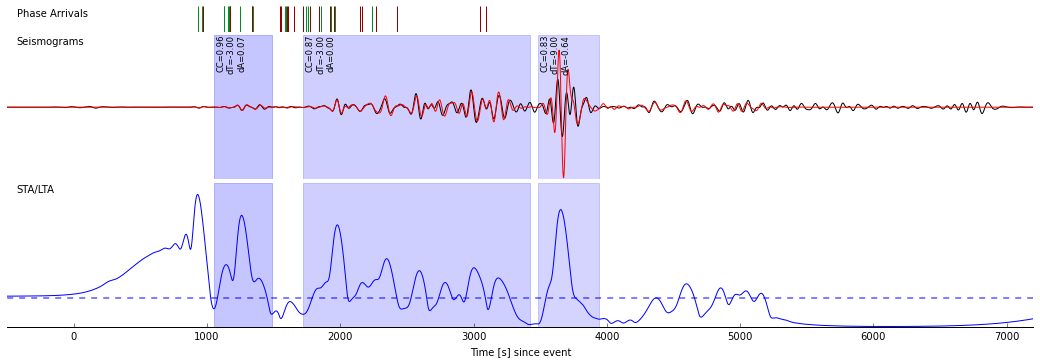
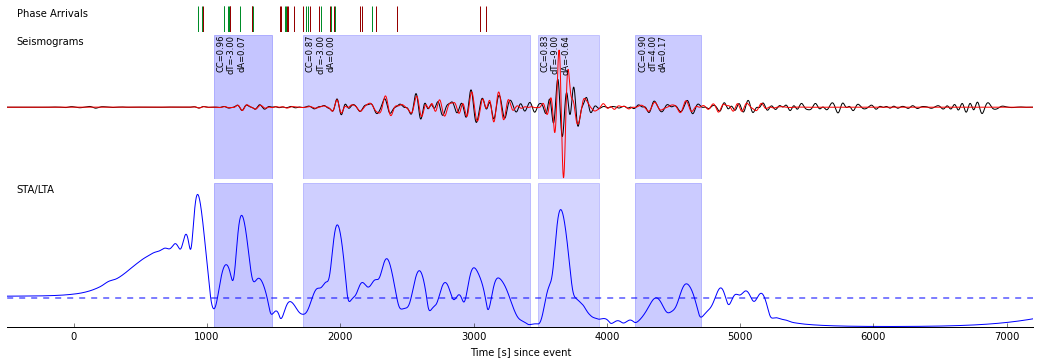
Travis build 22 pushed to gh-pages

Changed region(s): [[0.5846, 0.0909, 0.6769, 0.9091]]

diff --git a/_modules/pyflex/window_selector.html b/_modules/pyflex/window_selector.html
@@ -405,11 +405,14 @@
             <span class="bp">self</span><span class="o">.</span><span class="n">station</span><span class="o">.</span><span class="n">latitude</span><span class="p">,</span> <span class="bp">self</span><span class="o">.</span><span class="n">station</span><span class="o">.</span><span class="n">longitude</span><span class="p">,</span> <span class="bp">self</span><span class="o">.</span><span class="n">event</span><span class="o">.</span><span class="n">latitude</span><span class="p">,</span>
             <span class="bp">self</span><span class="o">.</span><span class="n">event</span><span class="o">.</span><span class="n">longitude</span><span class="p">)[</span><span class="mi">0</span><span class="p">]</span> <span class="o">/</span> <span class="mf">1000.0</span>
 
-        <span class="n">min_time</span> <span class="o">=</span> <span class="bp">self</span><span class="o">.</span><span class="n">ttimes</span><span class="p">[</span><span class="mi">0</span><span class="p">][</span><span class="s">&quot;time&quot;</span><span class="p">]</span> <span class="o">-</span> <span class="bp">self</span><span class="o">.</span><span class="n">config</span><span class="o">.</span><span class="n">min_period</span>
-        <span class="n">max_time</span> <span class="o">=</span> <span class="n">dist_in_km</span> <span class="o">/</span> <span class="bp">self</span><span class="o">.</span><span class="n">config</span><span class="o">.</span><span class="n">min_surface_wave_velocity</span>
+        <span class="n">offset</span> <span class="o">=</span> <span class="bp">self</span><span class="o">.</span><span class="n">event</span><span class="o">.</span><span class="n">origin_time</span> <span class="o">-</span> <span class="bp">self</span><span class="o">.</span><span class="n">observed</span><span class="o">.</span><span class="n">stats</span><span class="o">.</span><span class="n">starttime</span>
+
+        <span class="n">min_time</span> <span class="o">=</span> <span class="bp">self</span><span class="o">.</span><span class="n">ttimes</span><span class="p">[</span><span class="mi">0</span><span class="p">][</span><span class="s">&quot;time&quot;</span><span class="p">]</span> <span class="o">-</span> <span class="bp">self</span><span class="o">.</span><span class="n">config</span><span class="o">.</span><span class="n">min_period</span> <span class="o">+</span> <span class="n">offset</span>
+        <span class="n">max_time</span> <span class="o">=</span> <span class="n">dist_in_km</span> <span class="o">/</span> <span class="bp">self</span><span class="o">.</span><span class="n">config</span><span class="o">.</span><span class="n">min_surface_wave_velocity</span> <span class="o">+</span> <span class="n">offset</span>
 
         <span class="bp">self</span><span class="o">.</span><span class="n">windows</span> <span class="o">=</span> <span class="p">[</span><span class="n">win</span> <span class="k">for</span> <span class="n">win</span> <span class="ow">in</span> <span class="bp">self</span><span class="o">.</span><span class="n">windows</span>
-                        <span class="k">if</span> <span class="p">(</span><span class="n">win</span><span class="o">.</span><span class="n">right</span> <span class="o">&gt;=</span> <span class="n">min_time</span><span class="p">)</span> <span class="ow">and</span> <span class="p">(</span><span class="n">win</span><span class="o">.</span><span class="n">left</span> <span class="o">&lt;=</span> <span class="n">max_time</span><span class="p">)]</span>
+                        <span class="k">if</span> <span class="p">(</span><span class="n">win</span><span class="o">.</span><span class="n">relative_endtime</span> <span class="o">&gt;=</span> <span class="n">min_time</span><span class="p">)</span>
+                        <span class="ow">and</span> <span class="p">(</span><span class="n">win</span><span class="o">.</span><span class="n">relative_starttime</span> <span class="o">&lt;=</span> <span class="n">max_time</span><span class="p">)]</span>
         <span class="n">logger</span><span class="o">.</span><span class="n">info</span><span class="p">(</span><span class="s">&quot;Rejection based on travel times retained </span><span class="si">%i</span><span class="s"> windows.&quot;</span> <span class="o">%</span>
                     <span class="nb">len</span><span class="p">(</span><span class="bp">self</span><span class="o">.</span><span class="n">windows</span><span class="p">))</span>
 </div>
@@ -769,7 +772,9 @@
             <span class="n">plt</span><span class="o">.</span><span class="n">gca</span><span class="p">()</span><span class="o">.</span><span class="n">add_patch</span><span class="p">(</span><span class="n">re</span><span class="p">)</span>
             <span class="n">plt</span><span class="o">.</span><span class="n">text</span><span class="p">(</span><span class="n">l</span> <span class="o">+</span> <span class="n">buf</span><span class="p">,</span> <span class="n">plt</span><span class="o">.</span><span class="n">ylim</span><span class="p">()[</span><span class="mi">1</span><span class="p">],</span>
                      <span class="s">&quot;CC=</span><span class="si">%.2f</span><span class="se">\n</span><span class="s">dT=</span><span class="si">%.2f</span><span class="se">\n</span><span class="s">dA=</span><span class="si">%.2f</span><span class="s">&quot;</span> <span class="o">%</span>
-                     <span class="p">(</span><span class="n">win</span><span class="o">.</span><span class="n">max_cc_value</span><span class="p">,</span> <span class="n">win</span><span class="o">.</span><span class="n">cc_shift</span><span class="p">,</span> <span class="n">win</span><span class="o">.</span><span class="n">dlnA</span><span class="p">),</span>
+                     <span class="p">(</span><span class="n">win</span><span class="o">.</span><span class="n">max_cc_value</span><span class="p">,</span>
+                      <span class="n">win</span><span class="o">.</span><span class="n">cc_shift</span> <span class="o">*</span> <span class="bp">self</span><span class="o">.</span><span class="n">observed</span><span class="o">.</span><span class="n">stats</span><span class="o">.</span><span class="n">delta</span><span class="p">,</span>
+                      <span class="n">win</span><span class="o">.</span><span class="n">dlnA</span><span class="p">),</span>
                      <span class="n">horizontalalignment</span><span class="o">=</span><span class="s">&quot;left&quot;</span><span class="p">,</span>
                      <span class="n">verticalalignment</span><span class="o">=</span><span class="s">&quot;top&quot;</span><span class="p">,</span> <span class="n">rotation</span><span class="o">=</span><span class="s">&quot;vertical&quot;</span><span class="p">,</span>
                      <span class="n">size</span><span class="o">=</span><span class="s">&quot;small&quot;</span><span class="p">,</span> <span class="n">multialignment</span><span class="o">=</span><span class="s">&quot;right&quot;</span><span class="p">)</span>

diff --git a/index.html b/index.html
@@ -269,21 +269,21 @@ channels.</p>
 <span class="n">windows</span> <span class="o">=</span> <span class="n">pyflex</span><span class="o">.</span><span class="n">select_windows</span><span class="p">(</span><span class="n">obs_data</span><span class="p">,</span> <span class="n">synth_data</span><span class="p">,</span> <span class="n">config</span><span class="p">)</span>
 </pre></div>
 </div>
-<div class="highlight-python"><div class="highlight"><pre>[2014-11-10 07:14:47,187] - pyflex - INFO: Extracted station information from observed SAC file.
-[2014-11-10 07:14:47,188] - pyflex - INFO: Extracted event information from observed SAC file.
-[2014-11-10 07:14:47,191] - pyflex - INFO: Calculating envelope of synthetics.
-[2014-11-10 07:14:47,193] - pyflex - INFO: Calculating STA/LTA.
-[2014-11-10 07:14:47,518] - pyflex - INFO: Initial window selection yielded 3348 possible windows.
-[2014-11-10 07:14:47,519] - pyflex - INFO: Calculated travel times.
-[2014-11-10 07:14:47,528] - pyflex - INFO: Rejection based on travel times retained 3271 windows.
-[2014-11-10 07:14:47,560] - pyflex - INFO: Rejection based on minimum window length retained 3257 windows.
-[2014-11-10 07:14:47,661] - pyflex - INFO: Water level rejection retained 39 windows
-[2014-11-10 07:14:47,663] - pyflex - INFO: Single phase group rejection retained 14 windows
-[2014-11-10 07:14:47,664] - pyflex - INFO: Removing duplicates retains 14 windows.
-[2014-11-10 07:14:47,665] - pyflex - INFO: Rejection based on minimum window length retained 14 windows.
-[2014-11-10 07:14:47,666] - pyflex - INFO: SN amplitude ratio window rejection retained 12 windows
-[2014-11-10 07:14:47,669] - pyflex - INFO: Rejection based on data fit criteria retained 12 windows.
-[2014-11-10 07:14:47,676] - pyflex - INFO: Merging windows resulted in 3 windows.
+<div class="highlight-python"><div class="highlight"><pre>[2014-11-11 15:57:42,318] - pyflex - INFO: Extracted station information from observed SAC file.
+[2014-11-11 15:57:42,318] - pyflex - INFO: Extracted event information from observed SAC file.
+[2014-11-11 15:57:42,323] - pyflex - INFO: Calculating envelope of synthetics.
+[2014-11-11 15:57:42,325] - pyflex - INFO: Calculating STA/LTA.
+[2014-11-11 15:57:42,792] - pyflex - INFO: Initial window selection yielded 3348 possible windows.
+[2014-11-11 15:57:42,795] - pyflex - INFO: Calculated travel times.
+[2014-11-11 15:57:42,809] - pyflex - INFO: Rejection based on travel times retained 3314 windows.
+[2014-11-11 15:57:42,858] - pyflex - INFO: Rejection based on minimum window length retained 3304 windows.
+[2014-11-11 15:57:43,013] - pyflex - INFO: Water level rejection retained 41 windows
+[2014-11-11 15:57:43,018] - pyflex - INFO: Single phase group rejection retained 16 windows
+[2014-11-11 15:57:43,019] - pyflex - INFO: Removing duplicates retains 16 windows.
+[2014-11-11 15:57:43,020] - pyflex - INFO: Rejection based on minimum window length retained 16 windows.
+[2014-11-11 15:57:43,021] - pyflex - INFO: SN amplitude ratio window rejection retained 14 windows
+[2014-11-11 15:57:43,027] - pyflex - INFO: Rejection based on data fit criteria retained 14 windows.
+[2014-11-11 15:57:43,036] - pyflex - INFO: Merging windows resulted in 4 windows.
 </pre></div>
 </div>
 </div>
